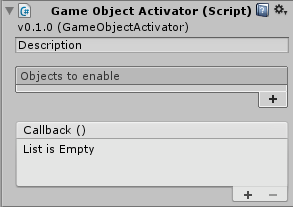
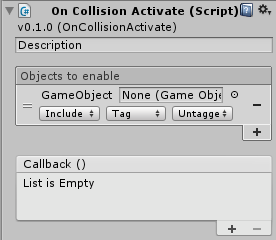
Update README and cover screenshot

Changed region(s): [[0.0, 0.0, 1.0, 1.0]]

diff --git a/README.md b/README.md
@@ -1,16 +1,16 @@
-# GameObjectActivator
+# OnCollisionActivate
 
-*GameObjectActivator* extension for Unity. Use it to enable set of game objects under specified conditions.
+*OnCollisionActivate* extension for Unity. Use it to enable set of game objects on raycast hit.
 
 Licensed under MIT license. See LICENSE file in the project root folder.   
 Extensions with version below 1.0.0 are considered to be pre/alpha and may not work properly.
 
-![GameObjectActivator](/Resources/cover_screenshot.png?raw=true)
+![OnCollisionActivate](/Resources/cover_screenshot.png?raw=true)
 
 ## Features
 
 * Enable multiple game object at once.
-* Specify include/exclude tag.
+* Specify include/exclude tag/layer.
 * Add multiple callbacks to be executed after all game object are handled.
 
 ## Resources
@@ -21,9 +21,10 @@ Nothing here.
 
 1. Clone or download (with the *Download* button) the repository into the *Assets* folder.
 2. Select game object in the hierarchy window and from the *Component* menu
-   select *GameObjectActivator* to add component to the selected game object.
+   select *OnCollisionActivate* to add component to the selected game object.
 3. Drag inactive game object to be activated.
-4. Specify include/exclude tag or leave empty. Game object with excluded tag won't be activated.
+4. Specify include/exclude tag/layer. Only game objects that are not
+   excluded will be activated.
 5. Eventually, specify callback action.
 
 ## Help
